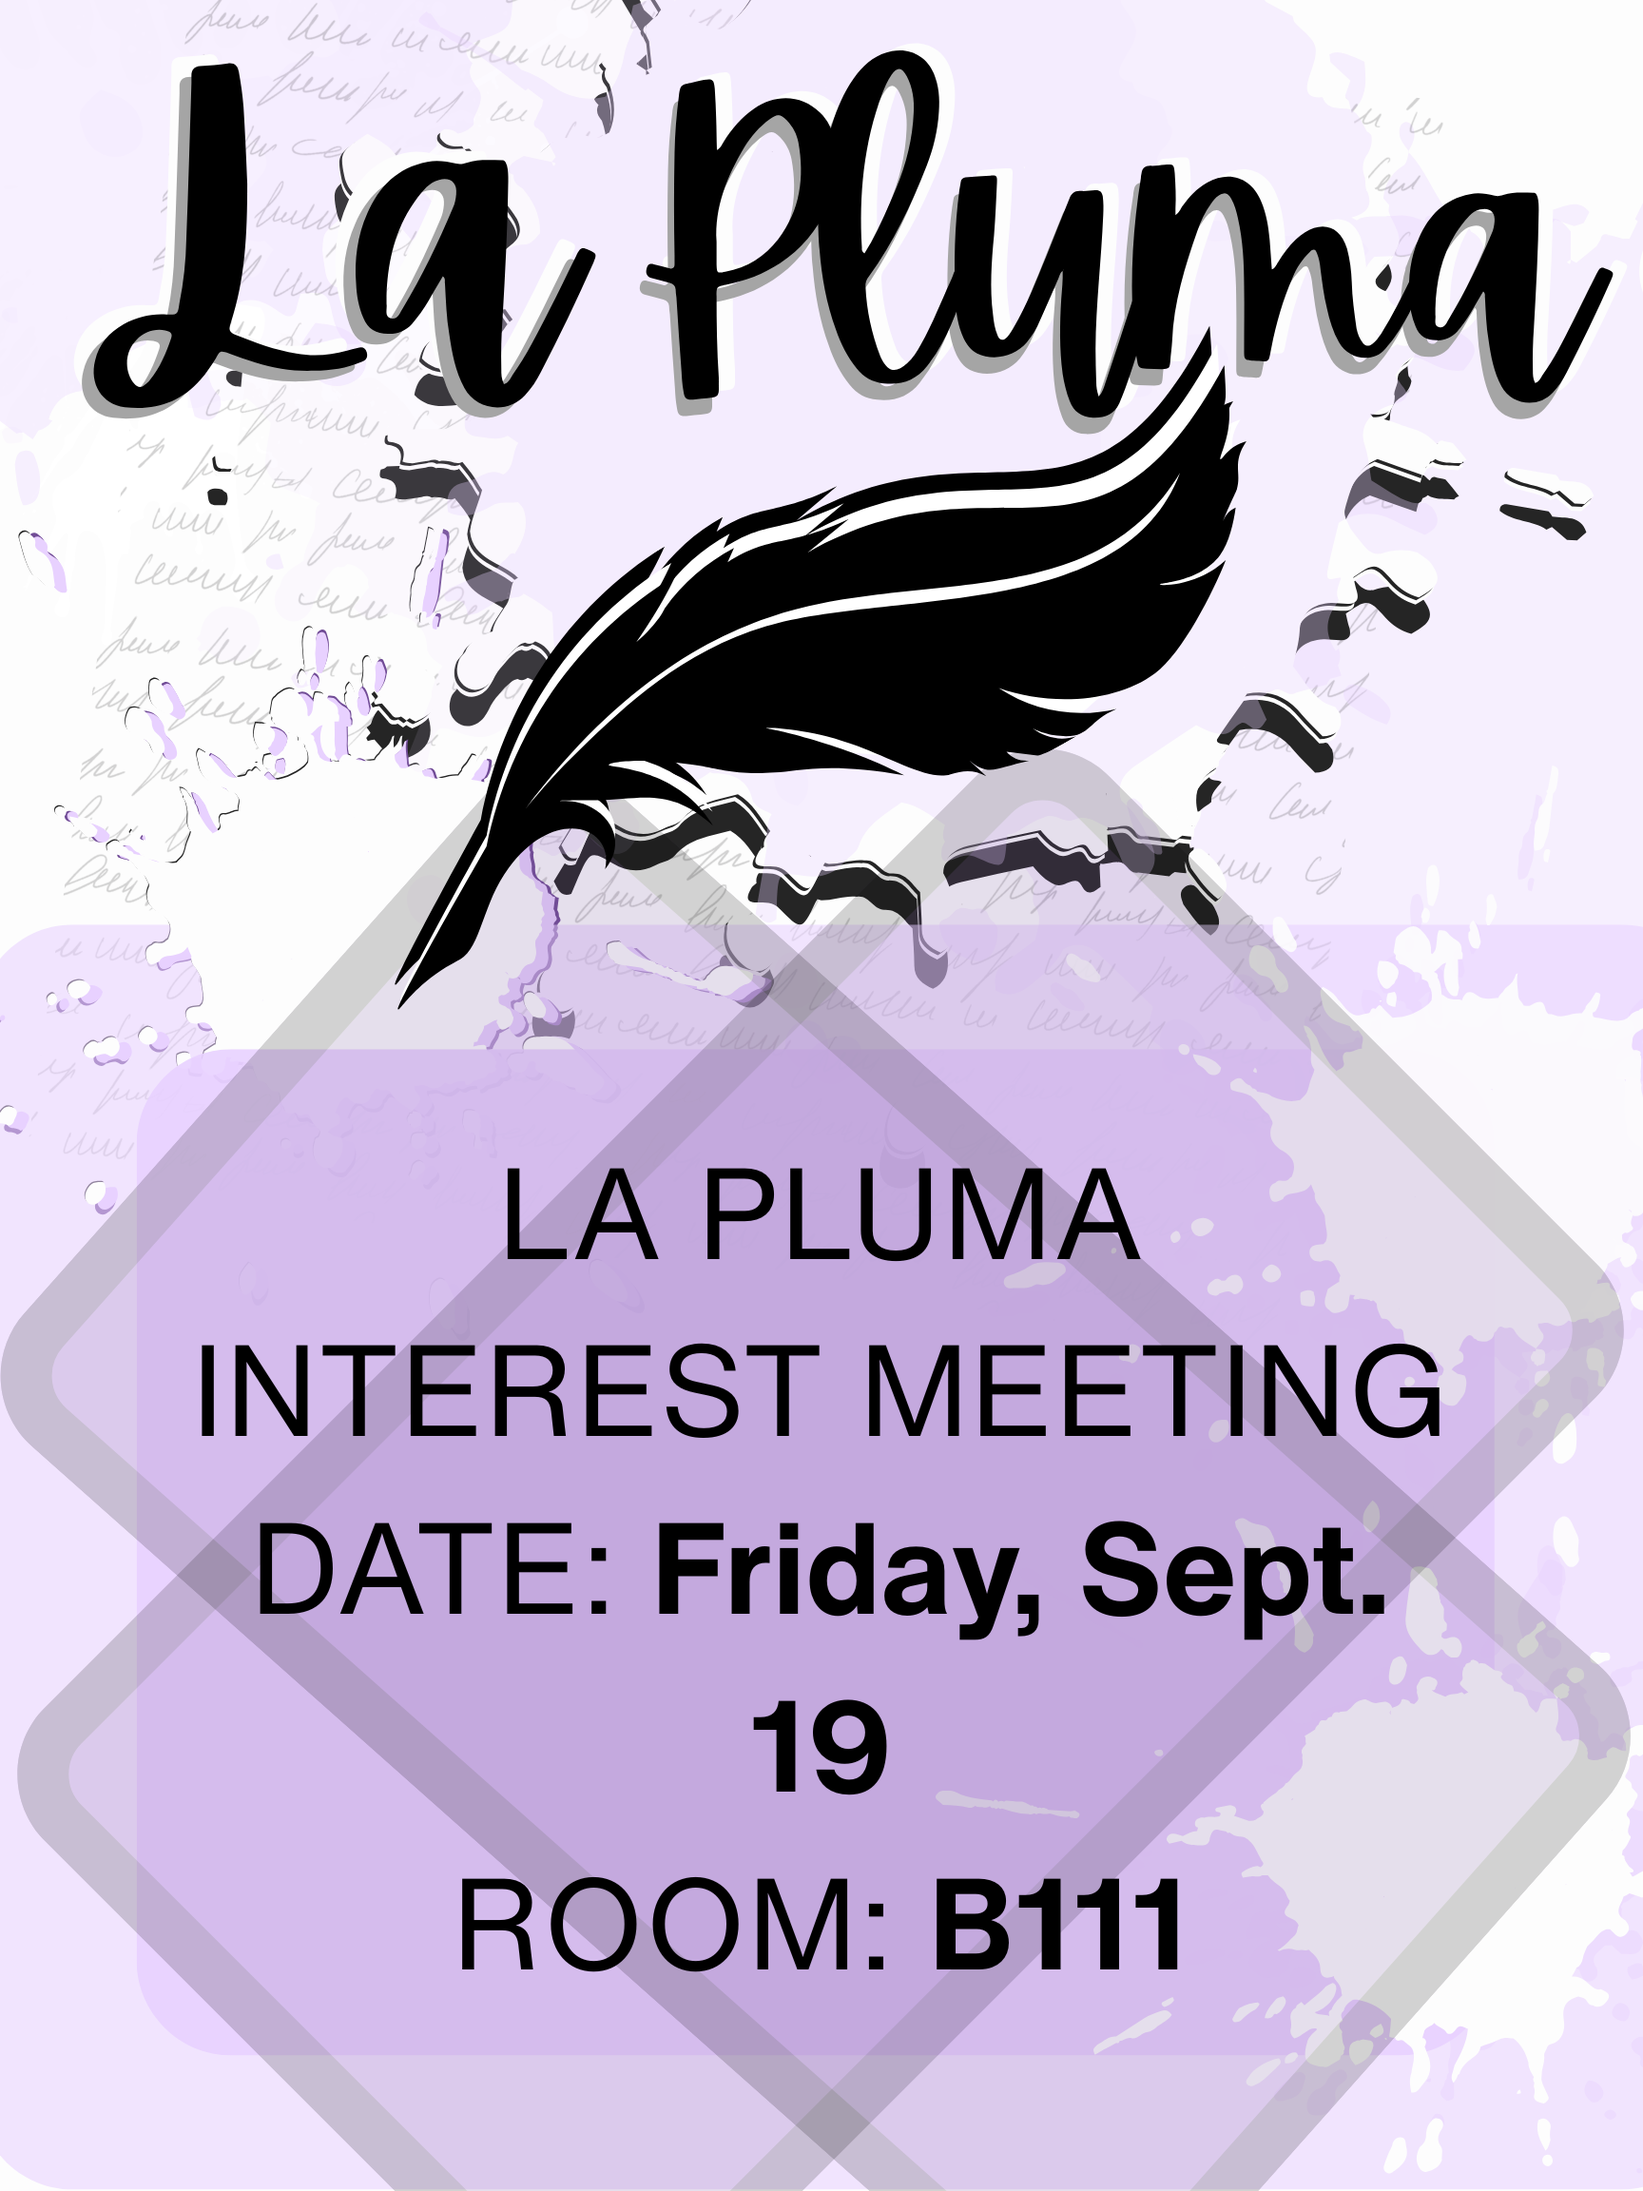
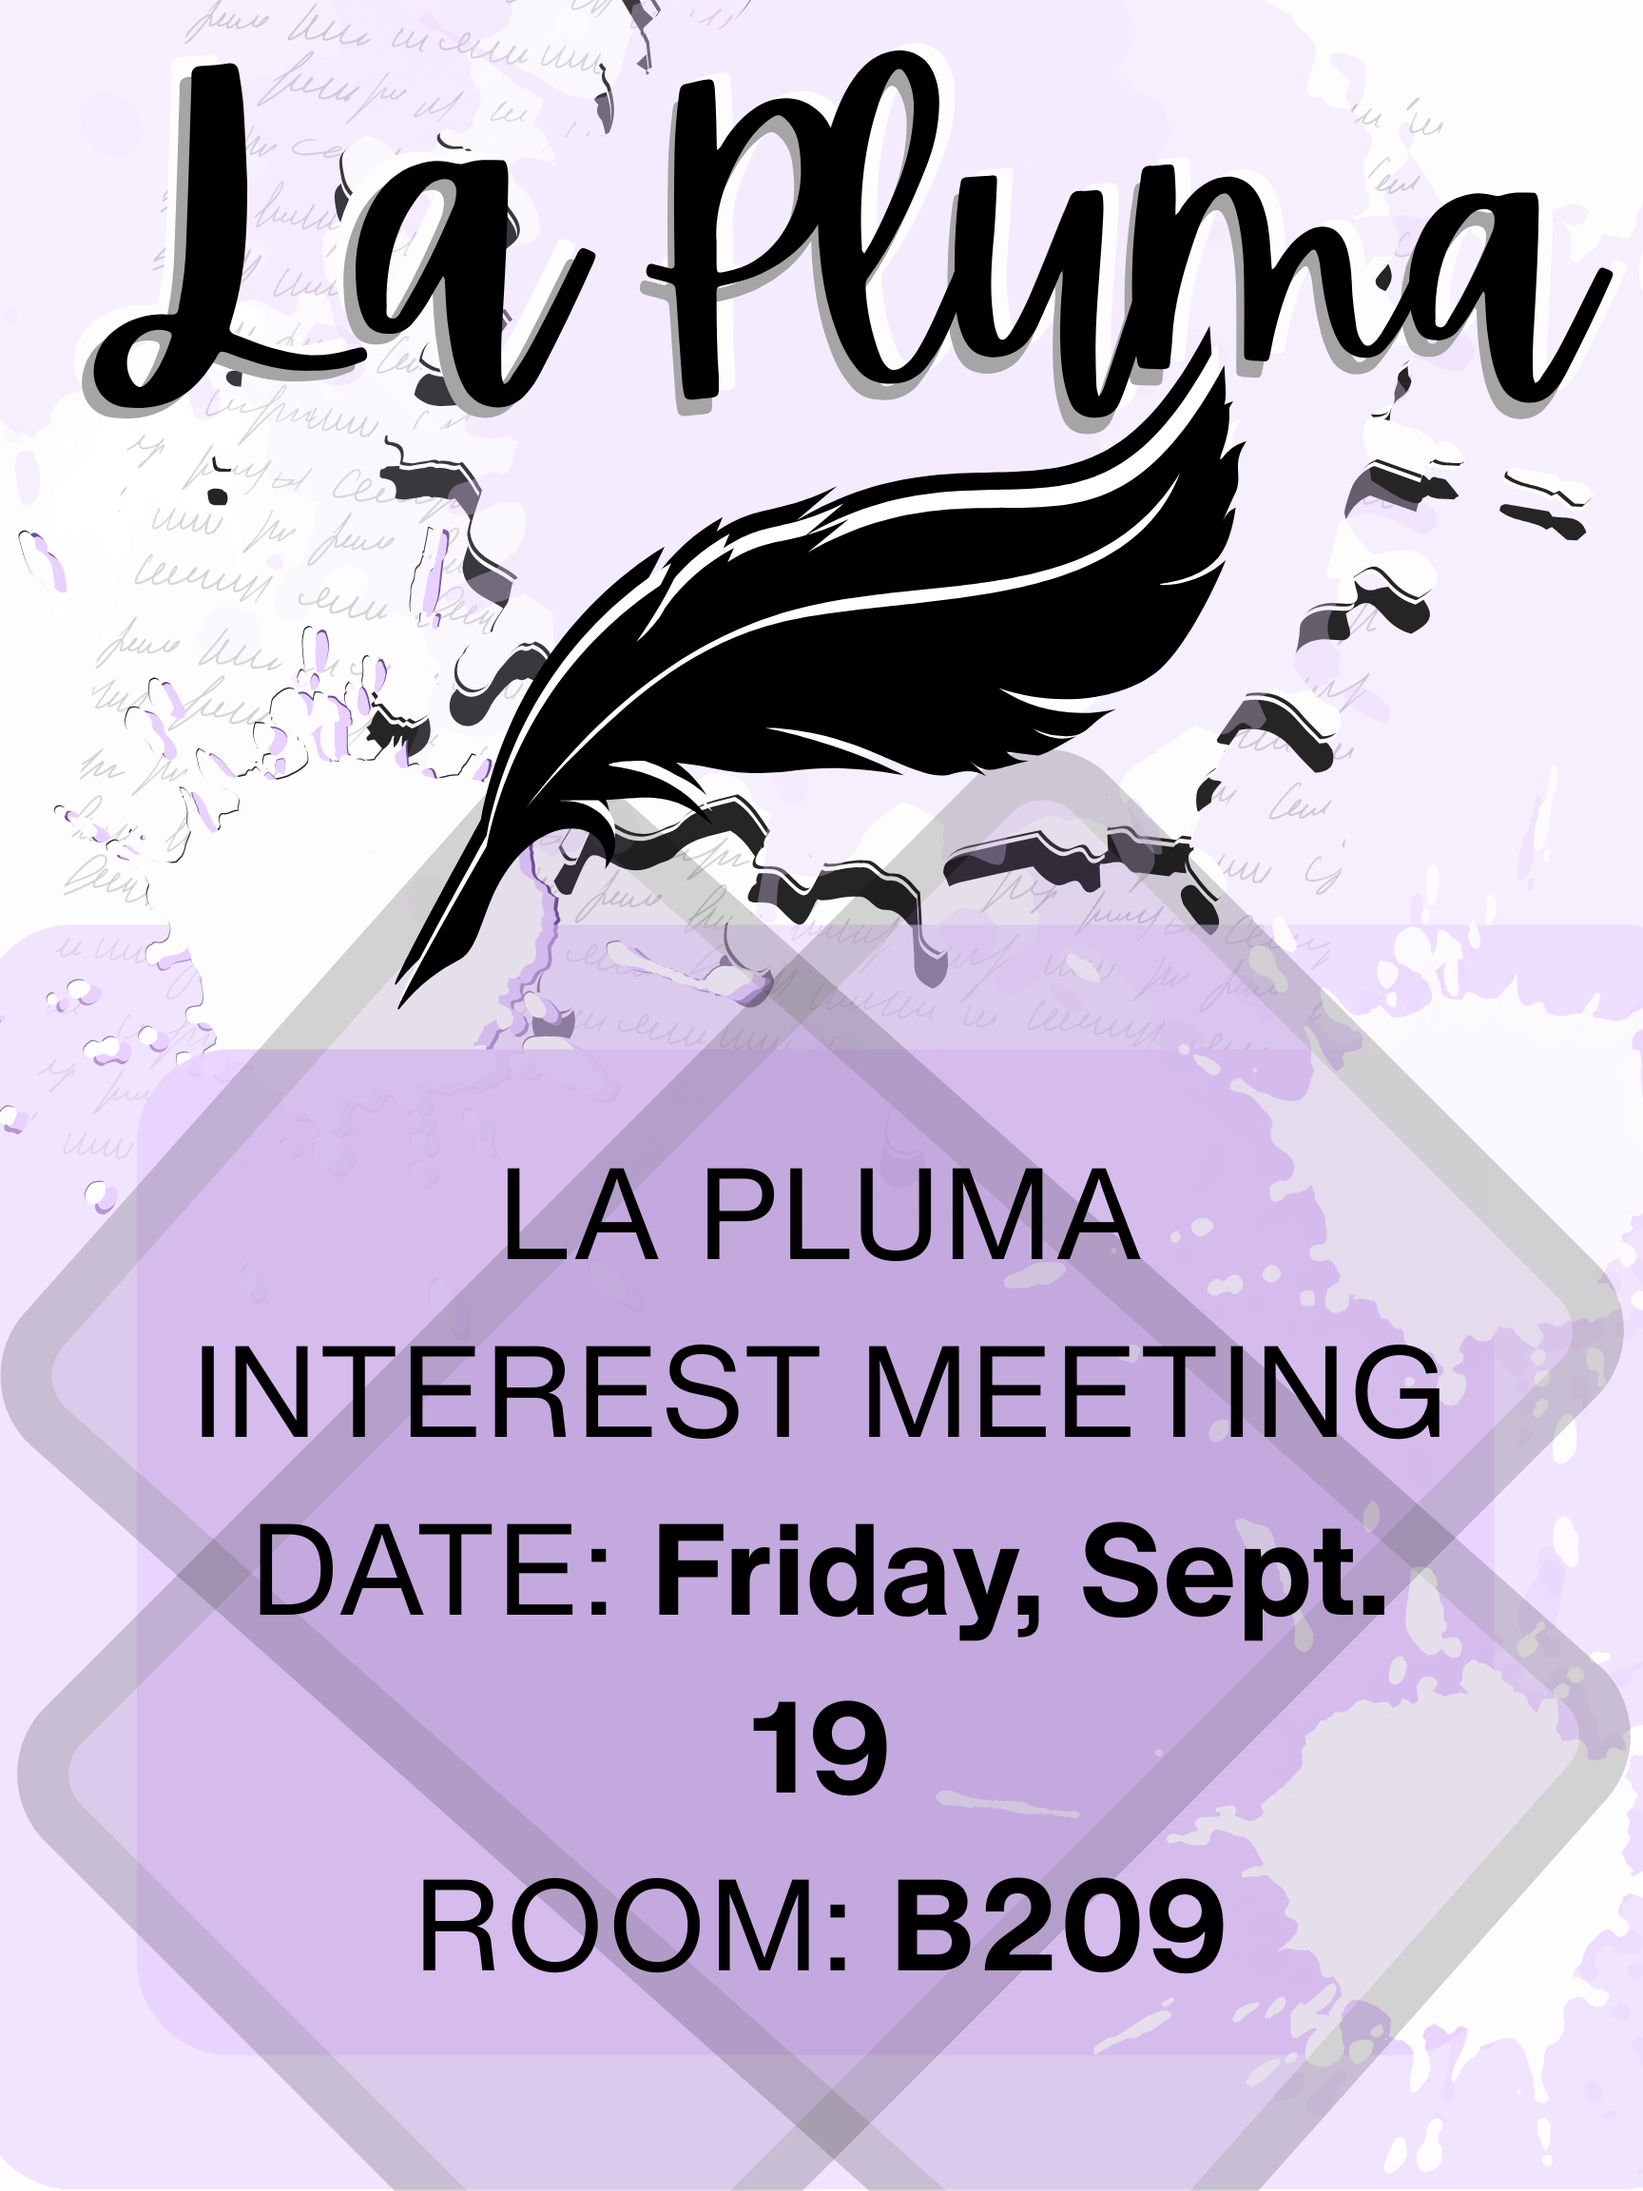
fixing flyer

Changed region(s): [[0.25, 0.8438, 0.75, 0.9062], [0.3125, 0.6875, 0.3438, 0.7188]]

diff --git a/Events/Current/current_events.html b/Events/Current/current_events.html
@@ -85,7 +85,7 @@
                     <div>
                         <h2>Interest Meeting</h2>
                         <br>
-                        <p>Please come to our interest meeting in B111 on Friday, September 11th if you are interested in learning more about La Pluma!</p>
+                        <p>Please come to our interest meeting in B209 on Friday, September 11th if you are interested in learning more about La Pluma!</p>
                     </div>
                 </div>
             </div>
